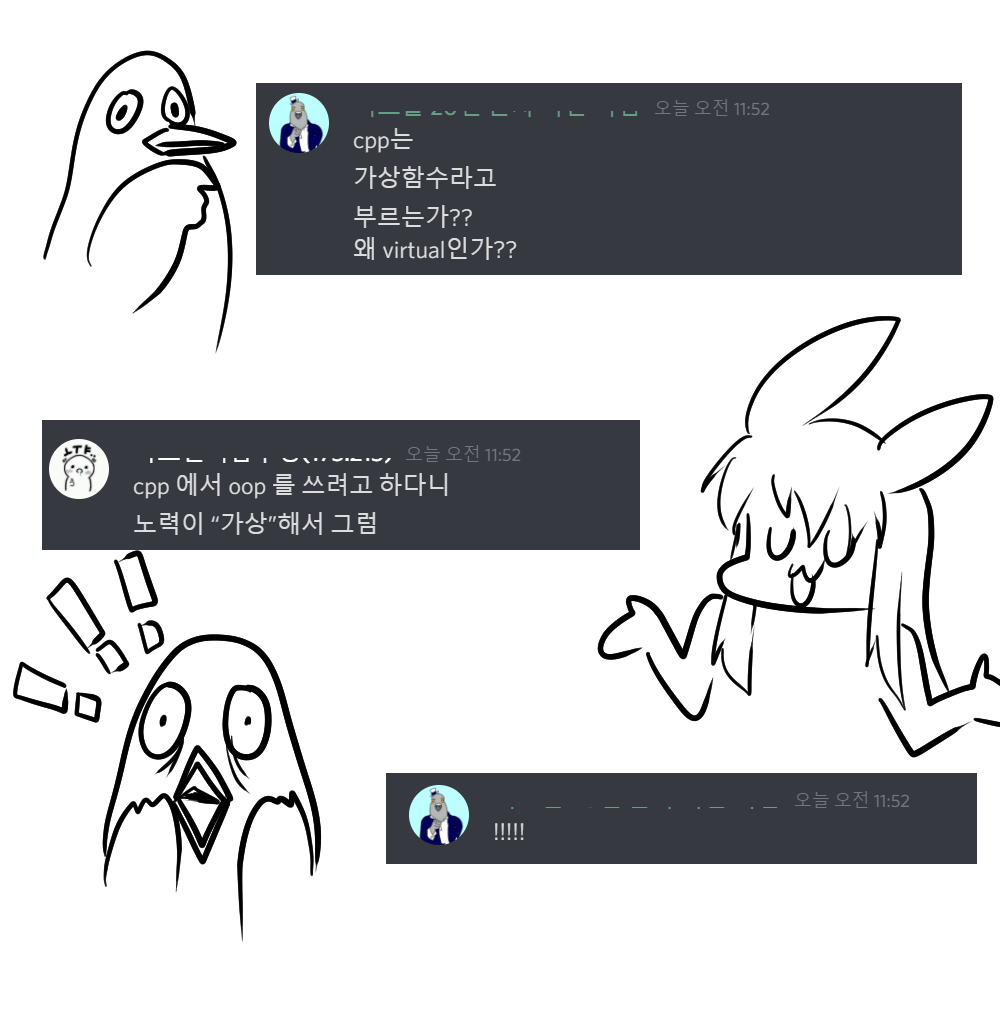
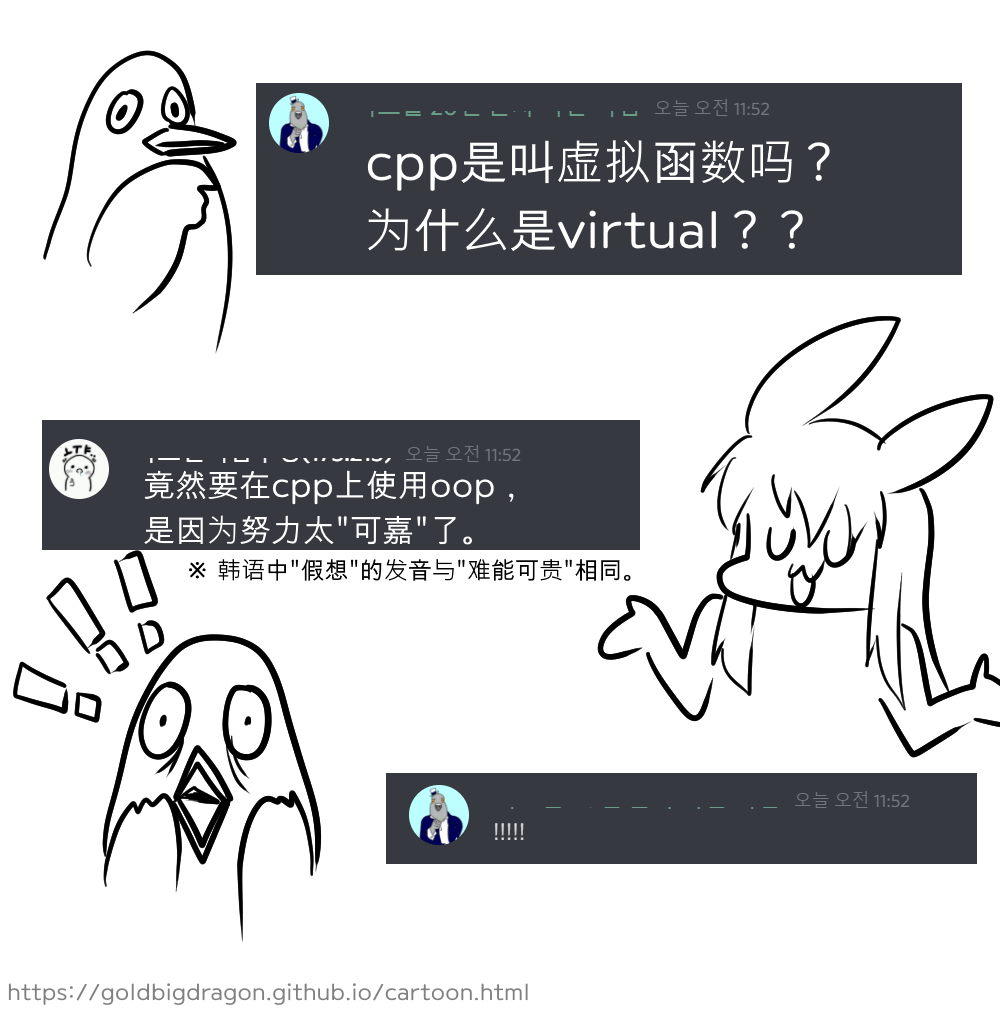
Daily touch

Changed region(s): [[0.341, 0.1225, 0.837, 0.2757], [0.124, 0.4595, 0.62, 0.582], [0.0, 0.9496, 0.527, 1.0]]

diff --git a/resources/data/cartoon/cartoon_list.js b/resources/data/cartoon/cartoon_list.js
@@ -8,11 +8,11 @@ const CARTOON_LIST = [
 			"ru":"Чат разработчиков"
 		},
 		"translating":{
-			"en":"Translating (7/225)",
+			"en":"Translating (12/225)",
 			"kr":"번역 완료",
-			"jp":"翻訳中 (7/225)",
-			"cn":"翻译 (7/225)",
-			"ru":"Перевод (7/225)"
+			"jp":"翻訳中 (12/225)",
+			"cn":"翻译 (12/225)",
+			"ru":"Перевод (12/225)"
 		},
 		"cover": "/resources/img/cartoon/developer/cover.png",
 		"uid":"developer",
